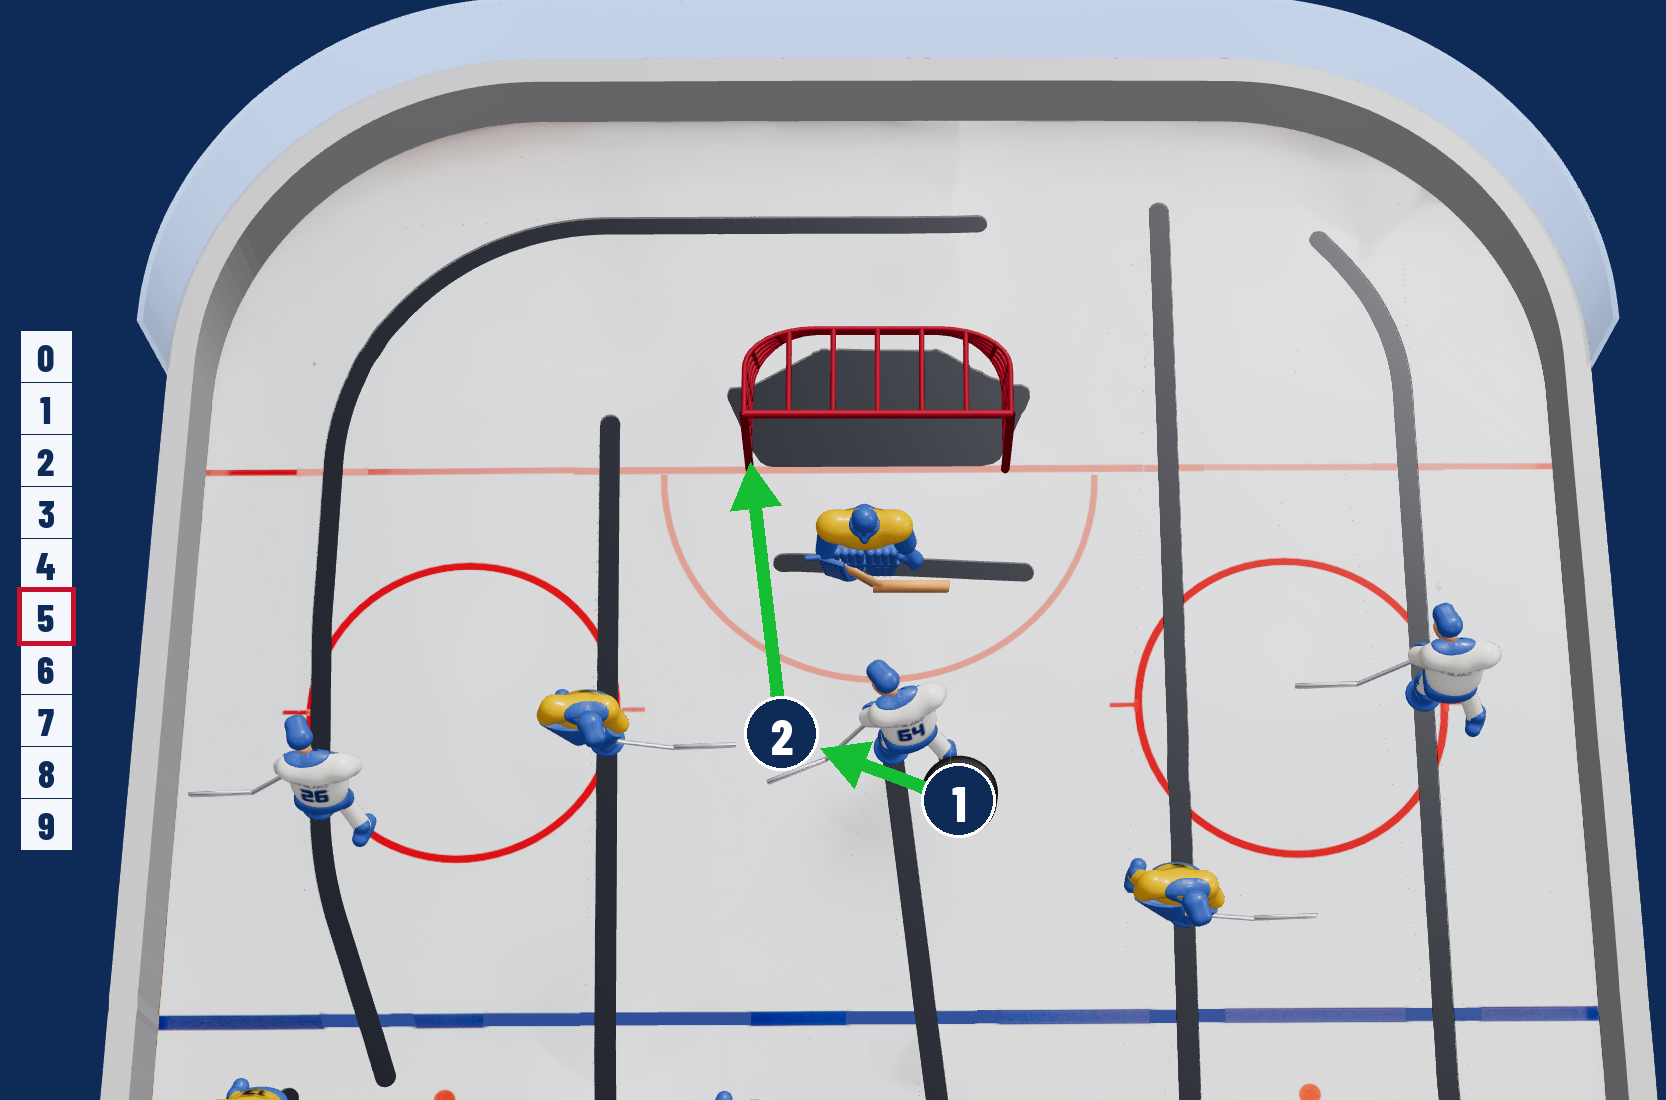
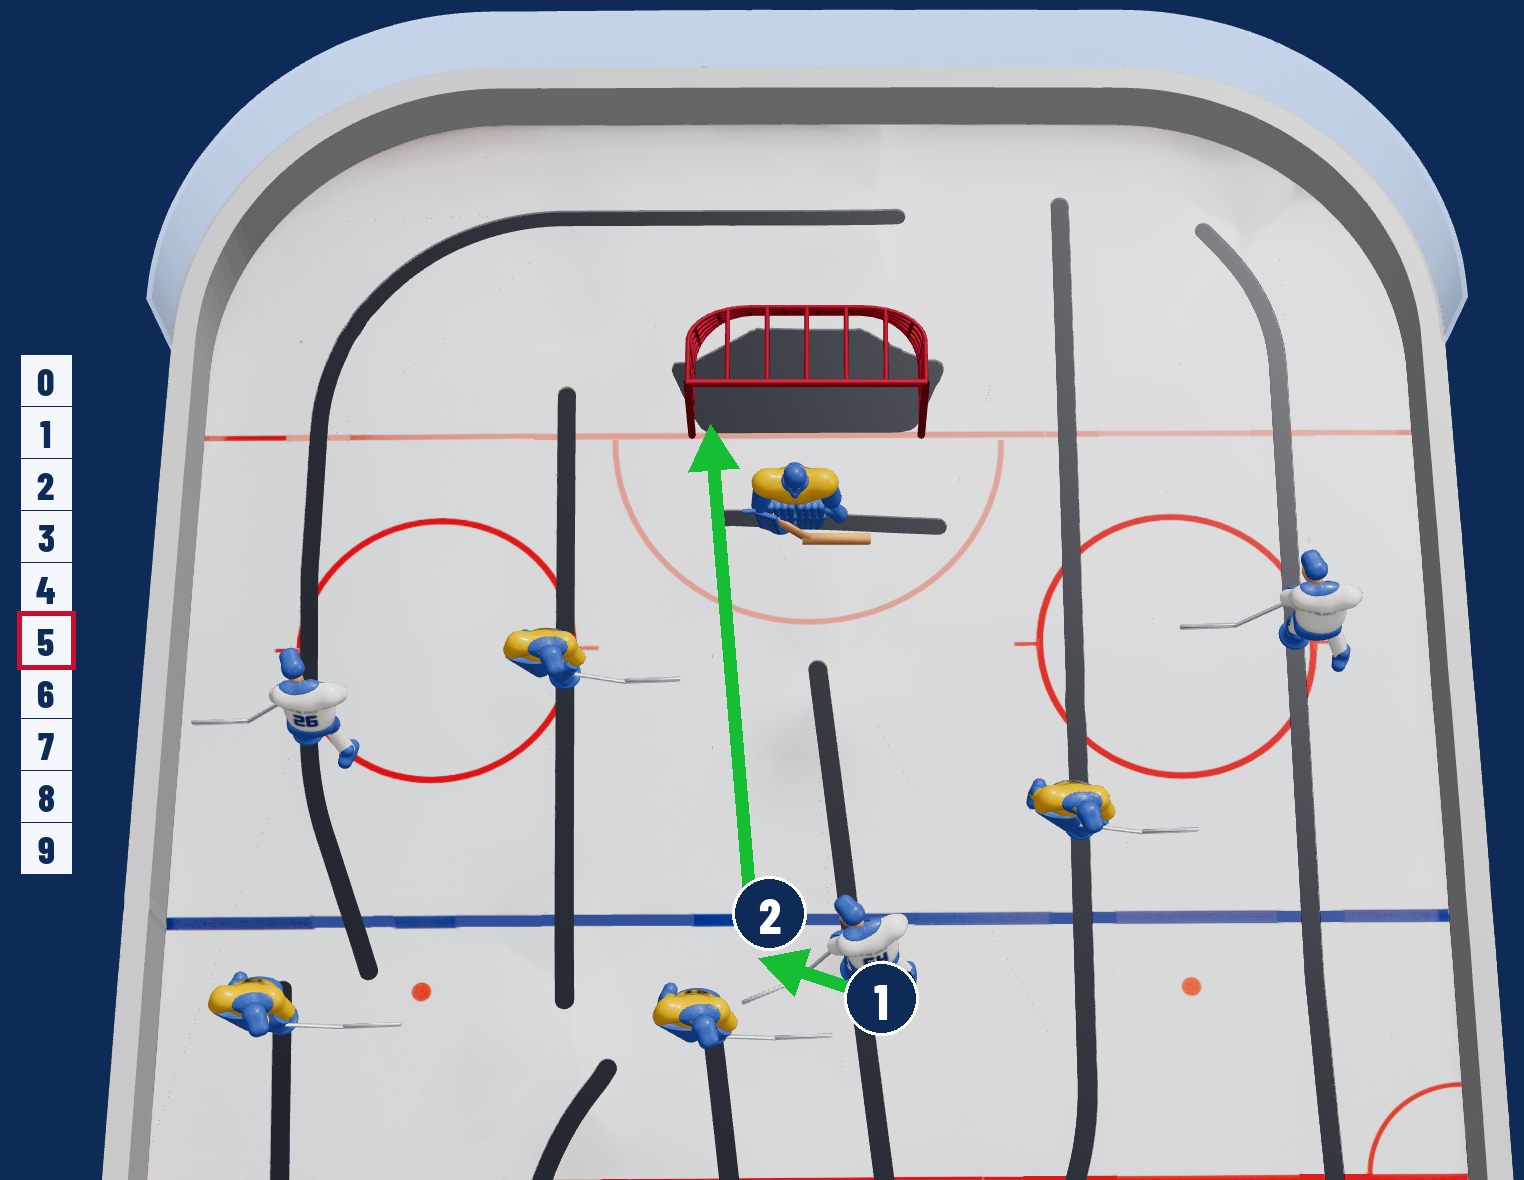
Move pictures: redo the six reviewed pictures
Wing carries start further back facing forward with the puck in the heel or stick groove;
fakie centre tricks from the middle of the centre's slot; review page marks redone moves.

Claude-Session: https://claude.ai/code/session_01BNTiwfvDFK1dJGset6TA2u

diff --git a/scripts/move-pictures/review-page.html b/scripts/move-pictures/review-page.html
@@ -40,6 +40,7 @@ h1 { font: 800 2.2rem/1 var(--display); letter-spacing: .01em; margin: 0; color:
 .lvl { font: 800 .95rem var(--display); background: var(--chip); border-radius: 4px; padding: 0 7px; font-variant-numeric: tabular-nums; }
 .text { margin: 0; }
 .note { margin: 0; font-size: .88rem; color: var(--muted); }
+.redone { margin: 0; font-size: .9rem; font-weight: 600; color: var(--navy); background: var(--chip); border-radius: 6px; padding: 5px 9px; }
 .swap { justify-self: start; font: 500 .88rem var(--body); background: none; border: 0; color: var(--navy); text-decoration: underline; cursor: pointer; padding: 0; }
 .verdict { display: flex; gap: 8px; flex-wrap: wrap; }
 .verdict button { flex: 1 1 140px; font: 600 .95rem var(--body); border-radius: 6px; padding: 7px 10px; cursor: pointer; border: 1.5px solid var(--line); background: var(--surface); color: var(--ink); }
@@ -111,6 +112,7 @@ function renderFilters() {
 async function save(m, patch, statusEl) {
   if (!db) return;
   const next = { verdict: reviews[m.id]?.verdict || null, comment: reviews[m.id]?.comment || "", ...patch, updatedAt: new Date().toISOString(), name: m.name };
+  if (reviews[m.id]?.redoneAt && !patch.verdict) next.redoneAt = reviews[m.id].redoneAt;
   statusEl.textContent = "Saving…";
   try {
     await db.collection("reviews").doc(m.id).set(next);
@@ -148,6 +150,7 @@ function card(m) {
       el("div", { class: "head" }, el("h2", {}, m.name), el("span", { class: "lvl", title: "NTHF level 0-9" }, `Level ${m.level}`), el("span", { class: "meta" }, m.player)),
       el("p", { class: "text" }, m.text),
       m.note ? el("p", { class: "note" }, m.note) : null,
+      r.redoneAt ? el("p", { class: "redone" }, `Redrawn ${new Date(r.redoneAt).toLocaleDateString()} after your comment. Your earlier comment is below.`) : null,
       swap,
       el("div", { class: "verdict" }, bOk, bCh),
       ta,

diff --git a/scripts/move-pictures/build.py b/scripts/move-pictures/build.py
@@ -34,6 +34,7 @@ BOARD = np.array(G["board"]["inner_boundary"]["world"]["points_mm"], float)
 # attacking goal up. The view frames the world rectangle x (bottom to top) by y (+-254 mm, the housing) at the ice.
 TILT_DEG = 20.0
 VIEWS = {"half": {"x": (68.0, 446.0), "y": (-254.0, 254.0), "dist_mm": 1050.0, "height_px": 1100},
+         "deep": {"x": (0.0, 446.0), "y": (-254.0, 254.0), "dist_mm": 1150.0, "height_px": 1180},
          "mid": {"x": (-95.0, 446.0), "y": (-254.0, 254.0), "dist_mm": 1400.0, "height_px": 1400},
          "full": {"x": (-446.0, 446.0), "y": (-254.0, 254.0), "dist_mm": 2000.0, "height_px": 1900}}
 MARGIN_L = 92  # px, left strip for the level scale (as on puck.no)
@@ -179,6 +180,14 @@ def build(spec):
         nxt = {seg["from"]: seg["to"] for seg in spec["path"]}
         for c in cs:
             k = key(c)
+            if "puck_local_mm" in c:  # a set grip (the user's review): figure at figure_px facing theta_deg, puck in the groove
+                arc, d = Slot(c["pid"]).nearest(pic_to_world(*c["figure_px"]))
+                th = c.get("theta_deg", 0.0)
+                h = HOME[c["pid"][0]] + th
+                points[k] = Slot(c["pid"]).at(arc) + rot(h) @ np.array(c["puck_local_mm"], float)
+                if c.get("pose", True):
+                    poses[c["pid"]] = {"arc_mm": round(arc, 1), "theta_deg": th, "source": f"contact {k} (set grip {c['puck_local_mm']} mm)"}
+                continue
             if c.get("kind") == "board":
                 points[k] = nearest_board(raw[k])
                 continue
@@ -333,12 +342,17 @@ def draw(spec, geo):
     r = 34
     pts = {k: to_px(geo, p) for k, p in geo["points_mm"].items()}
     marks = {k: np.array(p) for k, p in pts.items() if k.isdigit()}  # where each numbered circle goes
+    # a set grip must stay visible: its circle steps to the side, away from the figure, and the arrow starts at the puck
+    grips = {str(c["n"]) for c in spec.get("contacts", []) if "puck_local_mm" in c}
+    for k in grips:
+        marks[k] = marks[k] + np.array([-(2 * r + 14), 0.0])
     for a in geo["arrows_mm"]:
         P = [to_px(geo, p) for p in a]
         ks = next((k for k, q in pts.items() if k in marks and np.allclose(P[0], q)), None)
         ke = next((k for k, q in pts.items() if k in marks and np.allclose(P[-1], q)), None)
         length = sum(math.dist(u, v) for u, v in zip(P, P[1:]))
         cut_s, cut_e = (r + 6 if ks else 0), (r + 7 if ke else 0)
+        cut_s, cut_e = (40 if ks in grips else cut_s), (40 if ke in grips else cut_e)
         if ke and length < 5 * r:
             # too short to show between two circles (Näcka's heel pass): the end circle steps aside, the arrow keeps its tip
             u = (np.array(P[-1]) - np.array(P[-2])) / max(math.dist(P[-1], P[-2]), 1e-9)

diff --git a/docs/move-pictures.md b/docs/move-pictures.md
@@ -98,3 +98,15 @@ page with every move picture (121), its NTHF text, the puck.no original where th
 "Looks good" / "Needs change" choice and a comment. The page keeps the verdicts in its artifact database
 (collection `reviews`, document id = move id from `data/encyclopedia/index.json`), which Claude reads back with the
 artifact data tool. Published as an artifact for the user (link in the thread and in docs/state.md).
+
+### First review round (2026-10-14)
+
+Six pictures redrawn after the user's comments on the review page:
+- Edwall-innspill and Lindahl-innspill: the wing is drawn at the START of the carry, further back in its slot, facing
+  forward, with a set grip (`puck_local_mm` in the contact): the puck between the blade heel and the skate (heel
+  groove, Edwall) or between the stick and the skate (stick groove, Lindahl). Grip positions are ASSUMED from the
+  skater keypoints (`data/figure-keypoints.json`). The contact's circle steps aside so the grip stays visible. New view
+  `deep` (x 0-446 mm) shows the back of the slots.
+- Fakie Lillstøvel, Näcka, Omvendspjass and Spjass: played from the middle of the centre's slot (the user: impossible
+  from further forward).
+On the page the redone moves go back to "not reviewed" with the user's comment kept and a "Redrawn" note.
